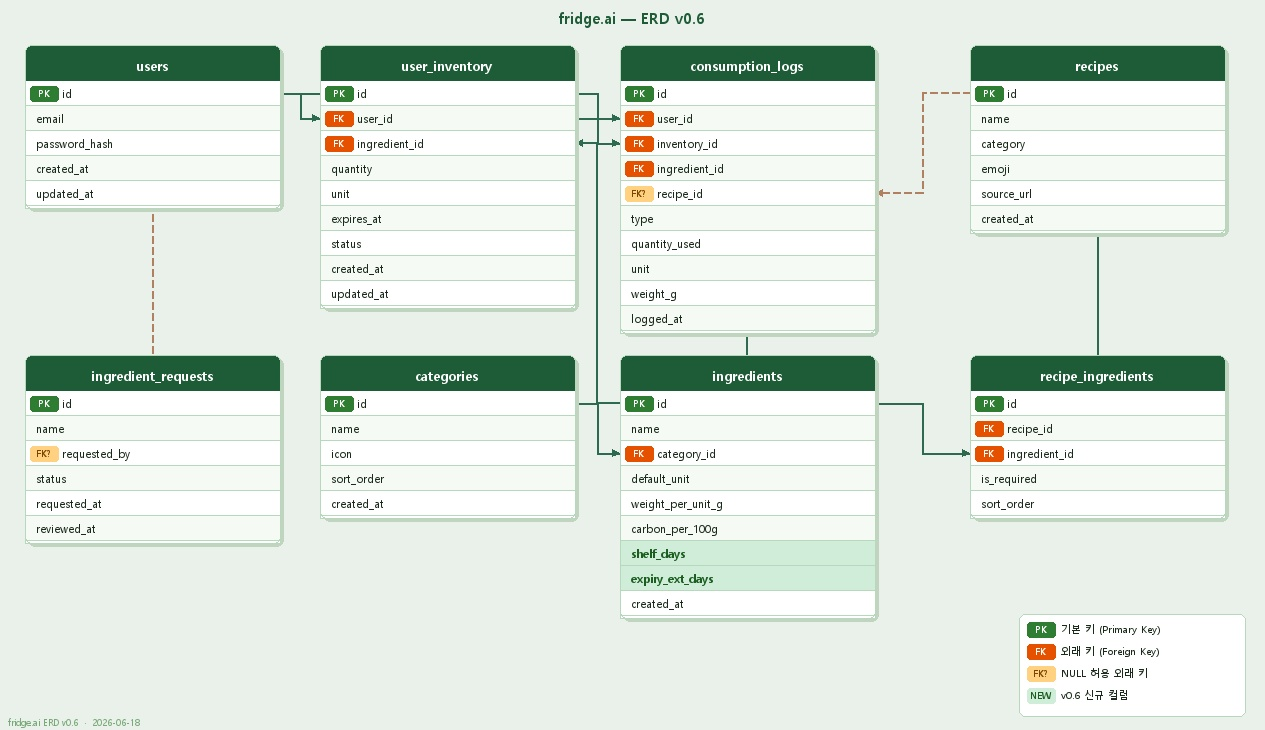
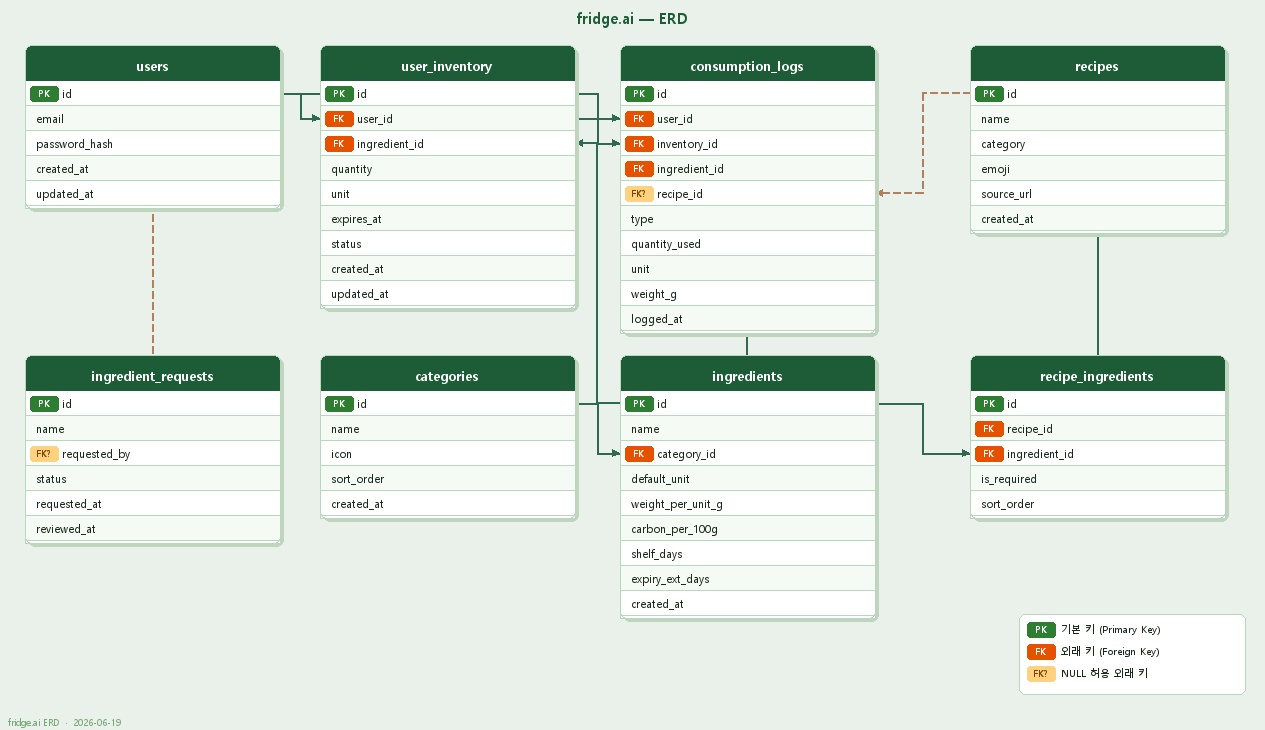
Update spec docs and regenerate ERD for demo day
- MANIFESTO.md v0.4: status → MVP complete, add F6 partial/F8 level+chart/F11 Guardian, update scope/roadmap
- erd.md v0.7: add consumption_logs partial type decision, update date
- gen_erd.py: remove v0.6 version tag from title/watermark, remove NEW legend entry, update date to 2026-06-19
- erd.jpg: regenerated from updated gen_erd.py

diff --git a/gen_erd.py b/gen_erd.py
@@ -70,8 +70,8 @@ TABLES = {
         ("id","PK",False),("name",None,False),("category_id","FK",False),
         ("default_unit",None,False),("weight_per_unit_g",None,False),
         ("carbon_per_100g",None,False),
-        ("shelf_days",None,True),       # v0.6 신규
-        ("expiry_ext_days",None,True),  # v0.6 신규
+        ("shelf_days",None,False),
+        ("expiry_ext_days",None,False),
         ("created_at",None,False),
     ],
     "recipe_ingredients": [
@@ -155,7 +155,6 @@ def draw_legend(draw, x, y):
         (PK_BG,PK_FG,"PK","기본 키 (Primary Key)"),
         (FK_BG,FK_FG,"FK","외래 키 (Foreign Key)"),
         (FKN_BG,FKN_FG,"FK?","NULL 허용 외래 키"),
-        (NEW_BG,NEW_FG,"NEW","v0.6 신규 컬럼"),
     ]
     draw.rounded_rectangle([x-8,y-8,x+218,y+len(items)*22+6], radius=6, fill=LEGEND_BG, outline=BORDER)
     for i,(bg,fg,bdg,label) in enumerate(items):
@@ -181,7 +180,7 @@ RELS = [
 img  = Image.new("RGB",(IMG_W,IMG_H),BG)
 draw = ImageDraw.Draw(img)
 
-draw.text((IMG_W//2,12),"fridge.ai — ERD v0.6",font=F_TITLE,fill=HDR_BG,anchor="mt")
+draw.text((IMG_W//2,12),"fridge.ai — ERD",font=F_TITLE,fill=HDR_BG,anchor="mt")
 
 for ft,fi,tt,ti,dashed in RELS:
     fox,foy=POSITIONS[ft]; tox,toy=POSITIONS[tt]
@@ -194,7 +193,7 @@ for name,(ox,oy) in POSITIONS.items():
     draw_table(draw,name,ox,oy)
 
 draw_legend(draw, IMG_W-238, IMG_H-108)
-draw.text((8,IMG_H-14),"fridge.ai ERD v0.6  ·  2026-06-18",font=F_VER,fill="#7aaa7a")
+draw.text((8,IMG_H-14),"fridge.ai ERD  ·  2026-06-19",font=F_VER,fill="#7aaa7a")
 
 out = r"C:\Users\tnals\fridge.ai\erd.jpg"
 img.save(out,"JPEG",quality=95)

diff --git a/MANIFESTO.md b/MANIFESTO.md
@@ -3,11 +3,11 @@
 > 가정 맞춤형 냉장고 재료 폐기 최소화 엔진
 > *"버리는 재료 없이, 오늘 뭐 먹지?를 해결한다."*
 
-- **상태:** 아이디어 / 기획 단계 (MVP 프로토타입 진행 중)
+- **상태:** MVP 프로토타입 완성 (Demo Day 2026-06-19)
 - **플랫폼:** 웹 앱 (모바일 우선)
 - **작성일:** 2026-06-14
-- **갱신일:** 2026-06-15
-- **문서 버전:** 0.3 (Team-Review Updated)
+- **갱신일:** 2026-06-19
+- **문서 버전:** 0.4 (Demo Day 반영)
 
 ---
 
@@ -35,6 +35,7 @@
 2. **D-day 자동 관리** — 유통기한 기반 D-day를 시스템이 실시간으로 추적·알림. 상태 구간: **임박(D-2 이하) · 주의(D-3~D-5) · 신선(D-6 이상)**.
 3. **소진 우선 큐레이션** — 마감 임박 재료를 활용하는 요리를 요리/메뉴 DB에서 매칭해 YouTube·블로그 링크로 추천.
 4. **환경·절약 리포트** — 월간 폐기 절감량을 탄소 환산값과 절약 식비로 가시화.
+5. **Proactive AI Guardian** — 임박 재료 조합을 AI가 설명하는 맞춤 배너로 능동적 냉장고 관리 유도.
 
 ## 4. 경쟁 포지셔닝 (Competitive Positioning)
 
@@ -44,6 +45,7 @@
 | 유통기한 관리 | 없음 | 단순 기록 | D-day 추적 + 알림 |
 | 폐기 분석 | 없음 | 없음 | 월간 절감·환경 리포트 |
 | 추천 기준 | 인기·취향 | 없음 | **임박도 우선** |
+| AI 능동 안내 | 없음 | 없음 | **Proactive Guardian 배너** |
 
 ### 비고객 3계층 공략 전략
 
@@ -51,20 +53,21 @@
 - **2계층 (앱 관리 거부층):** "오늘 안 먹으면 버리는 요리" 직관적 제시
 - **3계층 (환경 무관심 미개척층):** 식비 절약·환경 기여 리포트로 신규 유입
 
-## 5. 핵심 기능 (Core Features — MVP 후보)
+## 5. 핵심 기능 (Core Features)
 
-| # | 기능 | 설명 | 우선순위 |
-|---|------|------|---------|
-| F1 | 재료 등록 | **재료 마스터(약 131종) 기반 검색·자동완성 선택 입력**(자유 입력 불가), 카테고리 자동 지정, 수량·유통기한 입력 | P0 |
-| F2 | 자주 사는 재료 버튼 | 사용자별 자주 등록하는 재료를 원터치 재등록 (※ 프로토타입에 고정형 quick-add 선반영, 개인화 학습은 Phase 2) | P2 |
-| F3 | 재고 대시보드 | 보유 재료를 D-day 순으로 정렬·시각화, 상태(임박/주의/신선) 필터 | P0 |
-| F4 | D-day 추적 | 유통기한 기반 잔여일 계산 및 임박 상태 표시 (임박 D-2 이하 / 주의 D-3~D-5 / 신선 D-6 이상) | P0 |
-| F5 | 소진 우선 추천 | 마감 임박 재료를 요리/메뉴 DB와 매칭해 YouTube·블로그 링크로 추천 | P0 |
-| F6 | 조리 완료·폐기 기록 | 사용 처리(재고 차감) 및 폐기 이력 기록 | P1 |
-| F7 | 만료 알림 | 임박/만료 재료 알림 (인앱·이메일) | P1 |
-| F8 | 식비 절약·환경 리포트 | 월간 절감량 탄소 환산, 절약 식비, 폐기율 추이 | P1 |
-| F9 | 가정/가구 단위 공유 | 한 냉장고를 여러 구성원이 공유 | P2 |
-| F10 | 신규 재료 요청 큐 | 마스터에 없는 재료를 사용자가 '요청'하면 큐에 적재, 검토 후 마스터에 추가 | P1 |
+| # | 기능 | 설명 | 상태 |
+|---|------|------|------|
+| F1 | 재료 등록 | **재료 마스터(약 131종) 기반 검색·자동완성**, 카테고리 자동 지정, 수량·소비기한 입력. **중복 재료 자동 처리** — 같은 이름+소비기한이면 수량 병합, 다른 소비기한이면 별도 항목 생성 | ✅ MVP |
+| F2 | 자주 사는 재료 버튼 | 고정형 quick-add 선반(계란·두부·대파 등 상위 재료) 원터치 등록 | ✅ MVP |
+| F3 | 재고 대시보드 | D-day 순 정렬·시각화, 상태(임박/주의/신선) + 카테고리 필터, **같은 재료 그룹 카드** (소비기한별 항목 묶음 표시) | ✅ MVP |
+| F4 | D-day 추적 | 소비기한 기준 잔여일 계산 및 상태 표시 (임박 D-2 이하 / 주의 D-3~D-5 / 신선 D-6 이상). 소비기한·유통기한 입력 모드 전환 지원 | ✅ MVP |
+| F5 | 소진 우선 추천 | 임박 재료 기반 스코어링(35/15/40/10) + COOKRCP01 API(1,146건) 레시피 매칭, YouTube·블로그 링크 | ✅ MVP |
+| F6 | 소진 기록 | **조리 완료**(재고 제거 + 리포트 집계) / **부분 사용**(입력량만큼 수량 차감 + 사용량 리포트 반영) / **폐기** 3가지 액션 | ✅ MVP |
+| F7 | 만료 알림 | 임박/만료 재료 인앱·이메일 알림 | ⏳ Phase 2 |
+| F8 | 환경·절약 리포트 | 월간 절감량 탄소 환산·물 절약·환경 비용, **주간 소진 추이 스택 차트**(조리완료/부분사용 구분), **레벨 시스템**(6단계: 냉장고 새내기→냉장고 마스터) | ✅ MVP |
+| F9 | 가정/가구 공유 | 한 냉장고를 여러 구성원이 공유 | ⏳ Phase 3 |
+| F10 | 신규 재료 요청 큐 | 마스터에 없는 재료를 요청하면 큐에 적재, 검토 후 마스터 추가 (DB 설계 완료, UI는 Phase 2) | 🔧 DB only |
+| F11 | Proactive AI Guardian | 임박 재료 조합 분석 + AI 생성 설명 배너로 능동적 소진 유도. CO₂ 절감 배지 포함 | ✅ MVP |
 
 ## 6. 추천 엔진 개념 (Curation Engine)
 
@@ -84,36 +87,50 @@
 
 ### 스코어링 (요리 추천 우선순위)
 
-요리/메뉴 DB가 각 요리의 재료 구성을 보유하므로 아래 공식이 **실제로 계산 가능**해진다.
-
 ```
 score(recipe) =
-      w1 * (사용 재료 중 임박 재료 비율)
-    + w2 * (보유 재료 매칭률)
-    + w3 * (임박도 가중합, D-day 작을수록 ↑)
-    - w4 * (부족 재료 수)
+      35 × urgentRatio     (사용 재료 중 임박(D-2 이하) 재료 비율)
+    + 15 × completeness    (보유 주재료 매칭률)
+    + 40 × absBonus        (임박·주의 재료 절대 개수, 5개 상한 — 다재료 요리 우대)
+    + 10 × seaRatio        (조미료·선택 재료 구비율)
+
+필터 ①: (임박+주의) 주재료 ≥ 1개
+필터 ②: 부족 주재료 ≤ 40%
 ```
 
 - **MVP 전략:** 규칙 기반 매칭·스코어링 → 데이터 축적 후 개인화·ML 고도화
-- **장점:** 조리법 전문 미소유로 저작권 리스크 최소화, 스코어링 정밀 추천 가능, 외부 링크로 최신 콘텐츠 연결
-- **선결 과제:** 요리/메뉴 DB의 **오픈소스 데이터 출처·라이선스 확보** (→ §14)
-- **참고:** 외부 링크는 MVP에서 YouTube·블로그 검색 URL로 시작하고, 정밀 카드(썸네일·제목)는 YouTube Data API를 Phase 2에서 선택 도입
+- **레시피 DB 소싱:** 식품안전나라 COOKRCP01 API(1,146건) + 내부 recipe_ingredients 매핑 병행
+- **장점:** 조리법 전문 미소유로 저작권 리스크 최소화
+- **참고:** 외부 링크는 MVP에서 YouTube·Naver 블로그 검색 URL로 시작, 정밀 카드는 Phase 2에서 YouTube Data API 도입
 
 ## 7. 환경·절약 리포트 (Report)
 
 감성적 톤: **환경 기여 중심** ("이번 달 탄소 1.2kg를 줄였어요")
 
+### 집계 공식 (MVP 구현)
+
+```
+wasteG     = (조리완료 건수 × 150g) + 부분사용 weight_g 합계
+co2_kg     = wasteG × 0.00087
+water_L    = wasteG × 0.2
+envCost_원 = co2_kg × 10,000
+```
+
 | 항목 | 내용 |
 |------|------|
-| 조리 완료 기록 | 추천 요리 → 실제 조리 완료 이력 |
-| 폐기 기록 | 유통기한 초과 폐기 이력 및 금액 환산 |
-| 월간 절감량 | 폐기 감소 재료의 탄소 발자국 환산값 |
-| 식비 절약 | 소진 재료 금액 기준 절약액 추정 |
-| 환경 기여 분석 | 누적 탄소 절감 트렌드 시각화 |
+| 구출한 재료 | 이번 달 조리완료 건수 (히어로 카드) |
+| 음식물 쓰레기 절감량 | wasteG (g/kg 환산) + 쓰레기봉투 절약 수 |
+| CO₂ 절감 | wasteG × 0.00087 kg |
+| 물 절약 | wasteG × 0.2 L |
+| 환경 비용 절감 | co2_kg × 10,000 원 |
+| 조리 완료 | 조리완료 + 부분사용 합산 횟수 |
+| 레벨 시스템 | 6단계 (냉장고 새내기 → 절약 새싹 → 절약 고수 → 냉장고 지킴이 → 냉장고 영웅 → 냉장고 마스터) |
+| 주간 소진 추이 | 최근 7일 일별 스택 바 차트 (조리완료/부분사용 색상 구분, 오늘 하이라이트) |
 
 **데이터 출처 현황**
-- ✅ **탄소 환산:** 재료 마스터에 `carbon_per_100g` 확보 (출처: 농촌진흥청 국가표준식품성분표 + 탄소 발자국 문헌). §14-Q2 해소.
-- ⚠️ **식비 절약(단가):** 재료별 단가 데이터 **미확보** — 마스터에 가격 필드 없음. 절약액 추정의 선결 과제 (→ §14).
+- ✅ **탄소 환산:** 재료 마스터에 `carbon_per_100g` 확보 (출처: 농촌진흥청 국가표준식품성분표 + 탄소 발자국 문헌).
+- ✅ **절감량:** 조리완료 건당 150g 추정 + 부분사용 직접 입력량 합산.
+- ⚠️ **식비 절약(단가):** 재료별 단가 데이터 **미확보** — 절약 식비는 건당 2,500원 고정값으로 추정.
 
 ## 8. 사용자 (Users)
 
@@ -121,37 +138,42 @@ score(recipe) =
 - **2차 타깃:** 식비·환경에 관심 있는 가정 — 절약 리포트로 유입되는 신규 사용자
 - **핵심 페르소나:** "장은 봤는데 냉장고에 뭐가 있는지 가족끼리 아무도 모르고, 결국 멀쩡한 걸 버리는 사람"
 
-## 9. 기술 방향 (Tech Direction — 잠정)
+## 9. 기술 방향 (Tech Direction)
 
-> 기획 단계이므로 확정이 아니며, 설계 단계에서 재검토한다.
-
-- **프론트엔드:** **MVP는 정적 HTML/CSS/바닐라 JS 프로토타입**(모바일 우선, localStorage). 백엔드·계정·DB 연동 시점에 **Next.js(React)로 전환**.
-- **백엔드/데이터:** API 서버 + 관계형 DB (재료 마스터·재고·폐기 이력·요리/메뉴 DB)
-- **인증:** 이메일/소셜 로그인 (백엔드 도입 단계)
-- **재료 마스터:** 카테고리 10종 · 약 131종 재료 (단위·`weight_per_unit_g`·`carbon_per_100g` 포함). 등록은 마스터에서만 선택, 미등록은 신규 요청 큐(F10).
-- **레시피 소싱:** 오픈소스 기반 **요리/메뉴 DB**(요리↔재료 매핑) + YouTube·블로그 링크. YouTube Data API는 Phase 2 선택 도입.
-- **추천 엔진:** 규칙 기반 매칭·스코어링 모듈 (요리/메뉴 DB 활용)
-- **유통기한 데이터:** 사용자 직접 입력 (MVP) → 카테고리 프리셋 추후 추가
+- **프론트엔드:** 정적 HTML/CSS/바닐라 JS 프로토타입 (모바일 우선). 백엔드·계정·DB 연동 시점에 **Next.js(React)로 전환**.
+- **데이터 저장:** localStorage (STORE_KEY v5, LOG_KEY v2). 백엔드 도입 시 관계형 DB로 마이그레이션.
+- **추천 엔진:** 규칙 기반 스코어링 모듈 (app.js 내). 레시피 DB: COOKRCP01 API(1,146건) + 내부 recipe_ingredients 매핑 병행.
+- **소비기한:** 소비기한 직접 입력 + 유통기한→소비기한 자동 변환(expiry_ext_days 기준) 모드 전환 지원.
+- **AI Guardian:** 임박 재료 조합별 사전 정의 설명문 + 동적 렌더링 (MVP). Phase 2에서 Claude/GPT API 연동.
+- **배포:** GitHub Pages (main 브랜치 자동 배포).
+- **인증:** 이메일/소셜 로그인 (백엔드 도입 단계).
+- **재료 마스터:** 카테고리 10종 · 약 131종 재료 (단위·`weight_per_unit_g`·`carbon_per_100g`·`shelf_days`·`expiry_ext_days` 포함).
 
 ## 10. 범위 (Scope)
 
-### MVP에 포함 (In Scope)
-- 재료 등록 — 재료 마스터(약 131종) 기반 선택 입력, 카테고리 자동 지정 (F1)
-- 유통기한 D-day 추적 및 재고 대시보드(상태 필터 포함) (F3–F4)
-- 요리/메뉴 DB 구축 + 매칭·스코어링 기반 소진 우선 레시피 추천(YouTube·블로그 링크) (F5)
-- **단일 사용자** 기준 (가구 공유는 Phase 3)
+### MVP 구현 완료 (Demo Day 2026-06-19)
+- 재료 등록 — 마스터 기반 선택 입력, 카테고리 자동 지정, **중복 재료 자동 병합/분리** (F1)
+- 자주 사는 재료 버튼 — 고정형 quick-add 선반 (F2)
+- 재고 대시보드 — D-day 정렬, 상태/카테고리 필터, **재고 그룹 카드** (F3)
+- D-day 추적 및 소비기한/유통기한 입력 모드 전환 (F4)
+- 레시피 추천 — COOKRCP01 + 스코어링(35/15/40/10) + YouTube·블로그 링크 (F5)
+- **소진 기록** — 조리 완료 / **부분 사용(수량 차감 + 리포트 반영)** / 폐기 (F6)
+- **환경 리포트** — 탄소·물·환경비용, 레벨 시스템, 주간 스택 차트 (F8)
+- **Proactive AI Guardian 배너** (F11)
+- **단일 사용자** 기준 (user_id = 1 고정)
 
-### 2차 출시 (Phase 2)
-- 자주 사는 재료 버튼 (F2)
-- 조리 완료·폐기 기록 (F6)
-- 만료 알림 (F7)
-- 식비 절약·환경 리포트 (F8)
+### Phase 2 (예정)
+- 만료 알림 인앱·이메일 (F7)
+- 신규 재료 요청 UI (F10 — DB 설계 완료)
+- 자주 사는 재료 개인화 학습 (F2 고도화)
+- YouTube Data API 정밀 카드 (썸네일·제목)
+- AI Guardian Claude/GPT API 연동
+- Next.js + 백엔드 전환
 
-### 초기 범위 제외 (Out of Scope — 추후)
+### Phase 3 (미래)
 - 가정/가구 단위 멀티유저 공유 (F9)
-- 냉장고 사진 이미지 인식 자동 등록
-- 바코드/영수증 스캔 자동 등록
-- 유통기한 카테고리 프리셋 자동 세팅
+- 추천 개인화·ML
+- 이미지/바코드 자동 등록
 - 마트 가격 비교·자동 장보기
 - 영양 분석 / 식단 플래너
 - 모바일 네이티브 앱
@@ -164,35 +186,48 @@ score(recipe) =
 ## 12. 성공 지표 (Success Metrics)
 
 - **북극성 지표:** 사용자당 월간 폐기 재료 수 감소율 — *측정:* (전월 폐기 건수 − 당월 폐기 건수) / 전월 폐기 건수
-- **임박 재료 소진율** — *측정:* 임박(D-2 이하) 진입 재료 중 만료 전 '조리 완료'로 처리된 비율
+- **임박 재료 소진율** — *측정:* 임박(D-2 이하) 진입 재료 중 만료 전 '조리 완료' 또는 '부분 사용'으로 처리된 비율
 - 재료 등록 지속률 (주간 활성 등록 사용자, WAU 기준)
 - 추천 레시피 클릭/조리 전환율 (추천 노출 → 링크 클릭 → 조리 완료)
 - 월간 환경 리포트 확인율 (3계층 유입 지표)
 
-## 13. 로드맵 (Roadmap — 잠정)
+## 13. 로드맵 (Roadmap)
 
-- **Phase 0 — 기획:** 요구사항 정의, 화면 설계, 데이터 모델 (← 현재, 정적 프로토타입 진행 중)
-- **Phase 1 — MVP:** F1, F3–F5, 요리/메뉴 DB 기반 추천(검색 링크), 신규 요청 큐(F10), 단일 사용자
-- **Phase 2 — 정착:** 자주 사는 재료 개인화(F2), 폐기 기록(F6), 알림(F7), 환경 리포트(F8), YouTube Data API 정밀 카드, Next.js 전환
+- **Phase 0 — 기획:** 요구사항 정의, 화면 설계, 데이터 모델 ✅ **완료**
+- **Phase 1 — MVP:** F1~F6, F8, F11 구현, COOKRCP01 레시피 DB, 단일 사용자 ✅ **완료 (2026-06-19 데모)**
+- **Phase 2 — 정착:** 알림(F7), 재료 요청 UI(F10), 자주 사는 재료 개인화(F2 고도화), YouTube Data API 정밀 카드, AI Guardian API 연동, Next.js + 백엔드 전환
 - **Phase 3 — 확장:** 가구 공유(F9), 추천 개인화·ML, 자동 등록(이미지/바코드)
 
 ## 14. 미해결 질문 (Open Questions)
 
-- **[신규·High]** 요리/메뉴 DB를 어떤 **오픈소스 데이터**로 구축하나? (공공데이터·오픈 레시피 데이터셋의 출처·라이선스·재료 매핑 정제 방안)
-- **[미해결]** 폐기/절약 금액 환산을 위한 재료 **단가 데이터**를 어떻게 확보하나? (마스터에 가격 필드 부재 — §7)
-- 추천 정확도를 초기에 어떻게 검증할 것인가? (요리/메뉴 DB 매칭 품질 + 클릭/조리 전환율)
+- **[미해결]** 폐기/절약 금액 환산을 위한 재료 **단가 데이터**를 어떻게 확보하나? (현재 건당 2,500원 고정값 사용 — 마스터에 가격 필드 부재)
+- 추천 정확도를 초기에 어떻게 검증할 것인가? (COOKRCP01 매칭 품질 + 클릭/조리 전환율)
 - 자주 사는 재료 버튼(F2)의 개인화 학습 기준은? (등록 빈도 자동 추천 vs 사용자 수동 지정)
-- ~~탄소 절감량 환산 기준 데이터 확보~~ → **해소:** 마스터 `carbon_per_100g` 확보 (농진청+문헌)
-- ~~YouTube Data API v3 할당량(일 10,000 유닛) 충분 여부~~ → **완화:** MVP는 검색 링크 + 요리/메뉴 DB 기반이라 API 비의존. API 정밀 카드는 Phase 2에서 할당량 재검토.
+- AI Guardian(F11)을 Phase 2에서 LLM API로 전환 시 응답 레이턴시·비용 제어 방안은?
+- ~~탄소 절감량 환산 기준 데이터 확보~~ → **해소:** 마스터 `carbon_per_100g` 확보
+- ~~YouTube Data API v3 할당량~~ → **완화:** MVP는 검색 URL 기반, API는 Phase 2
+- ~~요리/메뉴 DB 오픈소스 출처·라이선스~~ → **해소:** 식품안전나라 COOKRCP01 API(공공데이터, 비상업적 이용 허용) 채택
 
 ## 15. 변경 이력 (Changelog)
 
+**v0.4 (2026-06-19, Demo Day)** — MVP 완성 반영
+- 상태 "아이디어/기획 단계" → "MVP 프로토타입 완성 (Demo Day 2026-06-19)"
+- F6(소진 기록): Phase 2 → **MVP 구현 완료**. **부분 사용** 액션 추가 — 입력량만큼 수량 차감 및 리포트 반영
+- F8(리포트): Phase 2 → **MVP 구현 완료**. **레벨 시스템**(6단계), **주간 스택 차트**(cook/partial 구분), 집계 공식 명시
+- F11 신규: **Proactive AI Guardian 배너** — 임박 재료 조합별 AI 설명 + CO₂ 배지
+- F1 업데이트: **중복 재료 자동 처리** — 동일 이름+소비기한 수량 병합, 다른 소비기한 분리 항목
+- F3 업데이트: **재고 그룹 카드** — 같은 이름 재료 소비기한별로 시각 묶음
+- §7 리포트 공식 명시 (wasteG, co2, water, envCost 계산식)
+- §10 범위: MVP 실구현 목록으로 재작성, Phase 2/3 재분류
+- §13 로드맵: Phase 0·1 완료 표시
+- §14 미해결 질문: 레시피 라이선스·탄소 데이터 해소 처리, AI Guardian 레이턴시 신규 추가
+
 **v0.3 (2026-06-15, Team-Review Updated)** — 스펙 검토 및 구축물 반영
-- 재료 입력: 자유 입력 → **재료 마스터(약 131종) 제한** + 신규 요청 큐(F10) 〔결정 A〕
-- 레시피 소싱: YouTube API 직접 검색 → **오픈소스 기반 요리/메뉴 DB 매칭 + YouTube·블로그 링크**, 스코어링 실현 가능화 〔결정 B〕 (§6)
-- 기술 스택: **정적 프로토타입 유지, Next.js는 백엔드 도입 시 후속** 〔결정 C〕 (§9)
-- 범위: **단일 사용자 MVP 유지**, 가구 공유(F9)는 Phase 3 〔결정 D〕 (§10)
-- D-day 상태 구간 정의(임박/주의/신선), 지표 측정식 명시, §14 미해결 질문 갱신(탄소 해소·단가/메뉴DB 라이선스 신규)
+- 재료 입력: 자유 입력 → 재료 마스터(약 131종) 제한 + 신규 요청 큐(F10)
+- 레시피 소싱: YouTube API 직접 검색 → 오픈소스 기반 요리/메뉴 DB 매칭 + YouTube·블로그 링크
+- 기술 스택: 정적 프로토타입 유지, Next.js는 백엔드 도입 시 후속
+- 범위: 단일 사용자 MVP 유지, 가구 공유(F9)는 Phase 3
+- D-day 상태 구간 정의, 지표 측정식 명시
 
 > **향후 보강 필요(미반영):** 개인정보·데이터 처리 정책, 접근성, 빈/오류 상태 가이드.
 

diff --git a/erd.md b/erd.md
@@ -1,8 +1,9 @@
 # fridge.ai — ERD & Query Definition
 
-- **문서 버전:** 0.6
-- **작성일:** 2026-06-18
-- **상태:** 기획 확정 (소비기한 기능 반영 — shelf_days·expiry_ext_days 컬럼 추가, expires_at 소비기한 기준으로 전환)
+- **문서 버전:** 0.7
+- **작성일:** 2026-06-14
+- **갱신일:** 2026-06-19
+- **상태:** MVP 완성 (Demo Day 반영 — partial 소진 타입 결정, 앱 구현 현황 동기화)
 
 ---
 
@@ -142,7 +143,7 @@
 | inventory_id | INT FK → user_inventory | |
 | ingredient_id | INT FK → ingredients | 리포트 집계용 비정규화 |
 | recipe_id | INT FK → recipes NULL | 참고한 레시피 (없으면 NULL) |
-| type | ENUM('cooked','wasted') | |
+| type | ENUM('cooked','wasted') | 앱 레이어에서는 'partial'(부분사용) act 추가 사용 — DB ENUM 확장은 Phase 2 예정 (§결정 사항 참고) |
 | quantity_used | DECIMAL(8,2) | |
 | unit | VARCHAR(20) | |
 | weight_g | DECIMAL(10,2) | quantity × weight_per_unit_g |
@@ -312,6 +313,7 @@ ON DUPLICATE KEY UPDATE requested_at = NOW();
 | shelf_days | ingredients 컬럼 | 재료 추가 시 소비기한 자동완성 (농진청·식약처 기준) |
 | expiry_ext_days | ingredients 컬럼 (0=미지원) | 유통기한 입력 시 소비기한 자동 변환 — 식약처 소비기한 참고값 고시(2023) 기준, 신선식품은 법적 유통기한 없어 0 |
 | expires_at 의미 변경 | user_inventory: 유통기한→소비기한 | 앱이 소비기한 기준으로 D-day 계산하므로 저장 값도 소비기한으로 통일 |
+| consumption_logs.type 'partial' | MVP 앱 레이어에서만 분리, DB ENUM은 현행 유지 | 앱은 'partial'(부분사용) act를 별도 기록해 수량 차감·리포트 반영에 활용. DB는 'cooked'/'wasted' ENUM 유지 — 부분사용 이력은 앱 localStorage에서 관리하고, Phase 2 백엔드 전환 시 ENUM에 'partial' 추가 예정 |
 
 ---
 
@@ -325,6 +327,7 @@ ON DUPLICATE KEY UPDATE requested_at = NOW();
 | 0.4 | 2026-06-16 | demo.sql v0.3 동기화 — 카테고리 10종·재료 40종·레시피 10종 시드 추가, 스코어 공식 app.js 완전 일치(urgentRatio/completeness/absBonus/seaRatio), COOKRCP01 연동 결정 기재, Q2 YouTube검색→레시피추천 교체, Q8 레시피 참고 빈도 쿼리 추가 |
 | 0.5 | 2026-06-17 | 스코어링 공식 개정 — absBonus 기준을 전체 매칭 수에서 임박·주의 재료 절대 개수로 변경, 가중치 재조정(35/15/40/10), 재고 날짜 CURDATE() 상대값으로 전환 |
 | 0.6 | 2026-06-18 | 소비기한 기능 반영 — ingredients에 shelf_days·expiry_ext_days 컬럼 추가, user_inventory.expires_at 설명 소비기한으로 변경 |
+| 0.7 | 2026-06-19 | Demo Day 동기화 — consumption_logs.type 'partial' 결정 사항 추가 (DB 현행 유지, Phase 2 확장 예정), 헤더 갱신일 추가 |
 
 ---
 